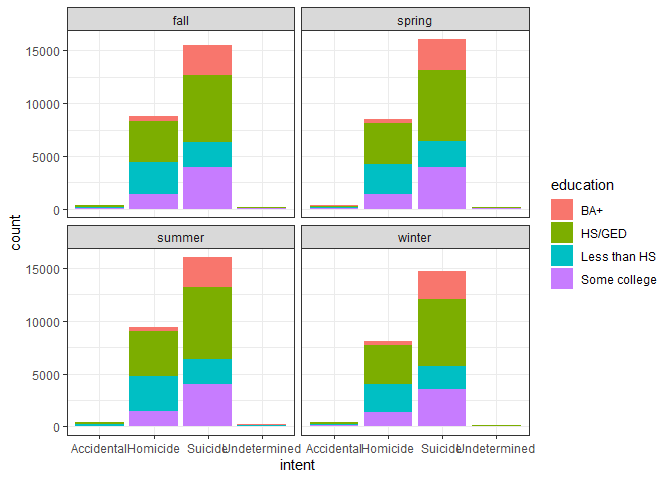
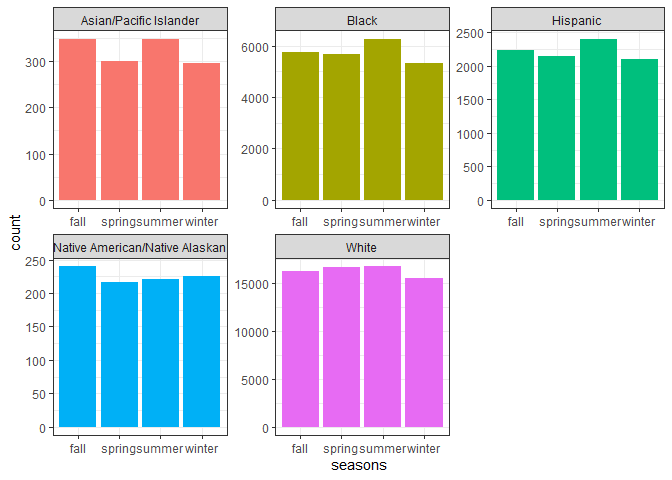
case study 5 completed

diff --git a/Week5/CaseStudy5/caseStudy5.html b/Week5/CaseStudy5/caseStudy5.html
@@ -270,9 +270,9 @@ season &lt;- gunData_new %&gt;%
 <pre class="r"><code>#Graph 1
 ggplot(season, aes(intent, fill = education)) +
   geom_bar() +
-  facet_wrap(~seasons) +
+  facet_wrap(~seasons, scales = &quot;free&quot;) +
   theme_bw()</code></pre>
[2 lines of base64/hex data omitted]
 <pre class="r"><code>#Graph 2
 ggplot(season, aes(seasons, fill = race)) +
   geom_bar() +

diff --git a/Week5/CaseStudy5/caseStudy5.md b/Week5/CaseStudy5/caseStudy5.md
@@ -128,11 +128,11 @@ season <- gunData_new %>%
 #Graph 1
 ggplot(season, aes(intent, fill = education)) +
   geom_bar() +
-  facet_wrap(~seasons) +
+  facet_wrap(~seasons, scales = "free") +
   theme_bw()
 ```
 
-![](caseStudy5_files/figure-html/unnamed-chunk-3-1.png)<!-- -->
+![](caseStudy5_files/figure-html/unnamed-chunk-2-1.png)<!-- -->
 A vast majority of all gun deaths are because of suicide. Most gun deaths are also by people that have a high school degree or a GED. Homicides for people with less than a high school education seem to increase in the summer and decrease in the winter. People with less than than high school education should be targeted more in the summer than the winter.
 
 
@@ -147,5 +147,5 @@ ggplot(season, aes(seasons, fill = race)) +
   theme(legend.position = 'none')
 ```
 
-![](caseStudy5_files/figure-html/unnamed-chunk-4-1.png)<!-- -->
+![](caseStudy5_files/figure-html/unnamed-chunk-3-1.png)<!-- -->
 The graphs show that gun deaths for Asians/Pacific Islanders increase in the fall and the summer and decrease in the spring and winter. For majority of the races, there seems to be a spike in gun deaths in the summer.
